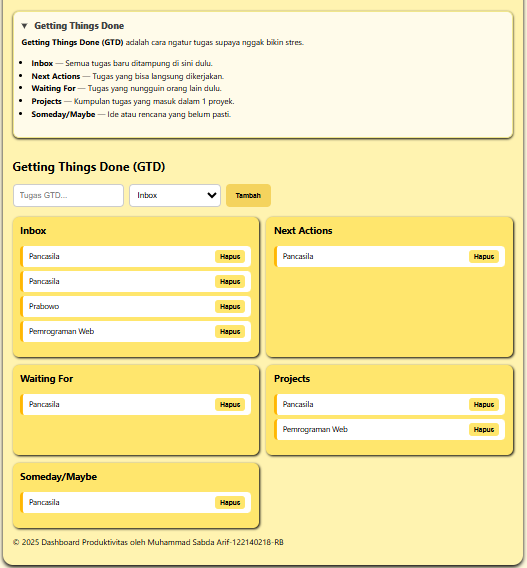
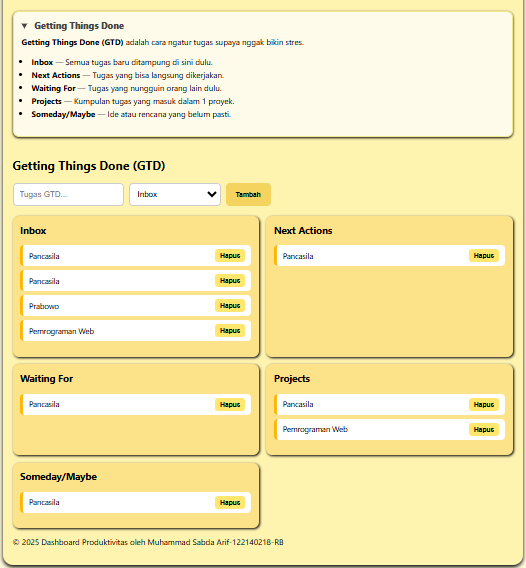
last one

diff --git a/MuhammadSabdaArif_122140218_Pertemuan2/css/style.css b/MuhammadSabdaArif_122140218_Pertemuan2/css/style.css
@@ -292,7 +292,6 @@ nav button:hover {
   margin-top: 0;
   color: #000000;
   font-size: 1.2em;
-  font-weight: normal;
 }
 
 /* Daftar tugas dalam matrix */
@@ -382,7 +381,7 @@ nav button:hover {
 
 /* Tiap box GTD */
 .gtd-box {
-  background-color: #ffe66d;
+  background-color: #fce38a;
   padding: 15px;
   border-radius: 12px;
   box-shadow: 2px 2px 6px #000000;
